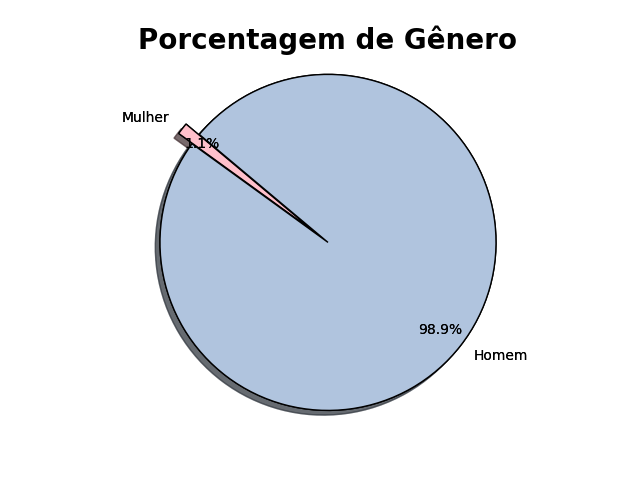
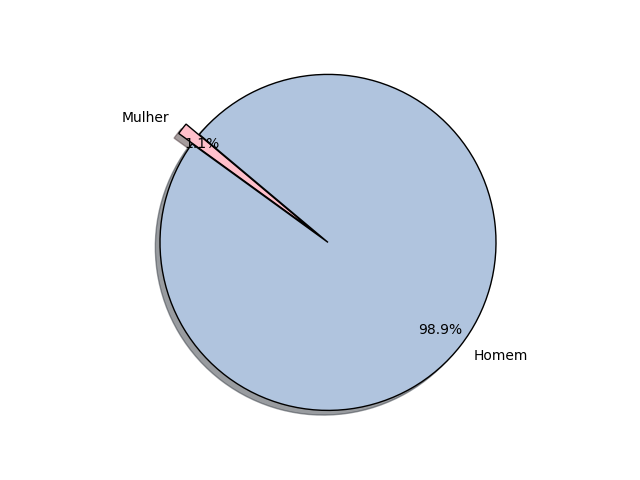
Atualizando o sistema de alternar entre produção ou desenvolvimento

diff --git a/main.py b/main.py
@@ -13,14 +13,40 @@ select = selectOption("Como você deseja analisar a imagem?", ["Analisar uma ima
 
 match select:
     case 1:
-        image_path = input("Digite o caminho da imagem: ")
+        # Criar uma expressão ternária, verificando se usará o diretório local do computador do desenvolvedor ou do Senac
+        computer_image_path = os.getenv('MY_OWN_COMPUTER_IMAGE_PATH') if appConfig().is_my_computer else os.getenv('SENAC_COMPUTER_IMAGE_PATH')
+        
+        if appConfig().is_development:
+            print("Entrou em fase de desenvolvimento")
 
-        # Verificar se o arquivo existe no diretório local
-        if not handleUtil(image_path).verifyLocalPath():
-            handleError("O arquivo não é uma imagem", 400).sendErrorMessage()
+            image_path = computer_image_path
+
+            # Verificar se o arquivo existe no diretório local
+            if not handleUtil(image_path).verifyLocalPath():
+                handleError("O arquivo não é uma imagem", 400).sendErrorMessage()
+                exit()
+            
+            # Ler um arquivo de exemplo em JSON para testar as funções de análise de imagem e geração de gráficos
+            with open(os.getcwd() + '/predictions.json', 'r') as file:
+                data = json.load(file)
+
+            HandleGraph(predictions=data, app_environment='development').dataProcessing()
+        elif appConfig().is_production:
+            print("Entrou em fase de produção")
+
+            image_path = input("Digite o caminho da imagem: ")
+
+            # Verificar se o arquivo existe no diretório local
+            if not handleUtil(image_path).verifyLocalPath():
+                handleError("O arquivo não é uma imagem", 400).sendErrorMessage()
+                exit()
+
+            face = FaceRecognition().analyzeFace(image_path)
+
+            HandleGraph(predictions=face, app_environment='production').dataProcessing()
+        else:
+            print("O modo escolhido no arquivo de configuração (.env) não é válido!")
             exit()
-
-        face = FaceRecognition().analyzeFace(image_path)
     case 2:
         # Criar uma expressão ternária, verificando no appConfig() se o modo escolhido é 'development' ou 'production', e se for 'development', usar uma URL de exemplo, caso contrário, usar a URL informada pelo usuário
         image_url = os.getenv('EXAMPLE_IMAGE_URL') if appConfig().is_development else input("Digite a URL da imagem: ")
@@ -80,27 +106,9 @@ match select:
                 handleError("Não foi possível detectar nenhum rosto na imagem!", 400).sendErrorMessage()
                 os.remove(downloaded_image)
                 exit()
-
-            """ face = FaceRecognition().analyzeFace(downloaded_image)
-            os.remove(downloaded_image)
-
-            print(face) """
         else:
             handleError("Ocorreu um erro ao baixar a imagem!", 500).sendErrorMessage()
             exit()
-
-        # Analisar a imagem usando o DeepFace.analyze()
-        # face = FaceRecognition().analyzeFace(requests.get(image_url, stream=True).raw)
-
-        #print(face)
     case _:
         handleError("Opção inválida! Tente novamente.", 400).sendErrorMessage()
         exit()
-
-""" # Testar a função detectFace
-image_path = os.getcwd() + '/src/assets/images/rosto-feminino.jpg'
-face = FaceRecognition().analyzeFace(image_path)
-
-# data = face['age']
-
-print(face) """

diff --git a/src/structures/graph/graphLayout.py b/src/structures/graph/graphLayout.py
@@ -33,7 +33,7 @@ class graphLayout:
         self.apply_font()
 
         # Importar a função para definir os parâmetros do gráfico
-        self.params(type='pie', bold_title=True, bold_label=True, bold_legend=True, title_size=20, label_size=12, legend_size='large')
+        self.params(type='pie', bold_title=True, bold_label=True, bold_legend=True, title_size=20, legend_size='large')
 
         # Assegura que o gráfico de pizza seja um círculo.
         self.plt.axis('equal')
@@ -44,7 +44,7 @@ class graphLayout:
     def bar(self, title):
         self.plt.title(title)
 
-    def params(self, type, bold_title=False, bold_label=False, bold_legend=False, title_size=20, label_size=12, legend_size='large'):
+    def params(self, type, bold_title=False, bold_label=False, bold_legend=False, title_size=16, legend_size='large'):
         if type == 'pie':
             """ self.plt.rcParams['font.family'] = 'Roboto' # Define a fonte do gráfico
             # Aumentando o tamanho do título do gráfico
